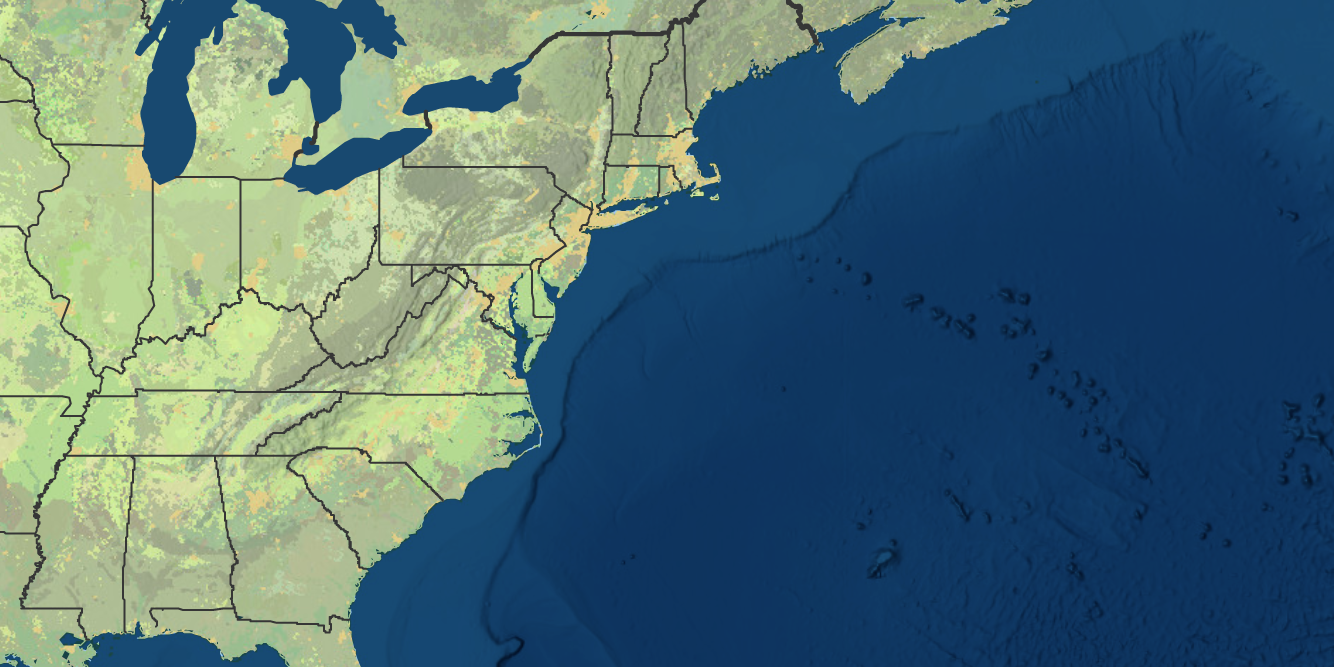
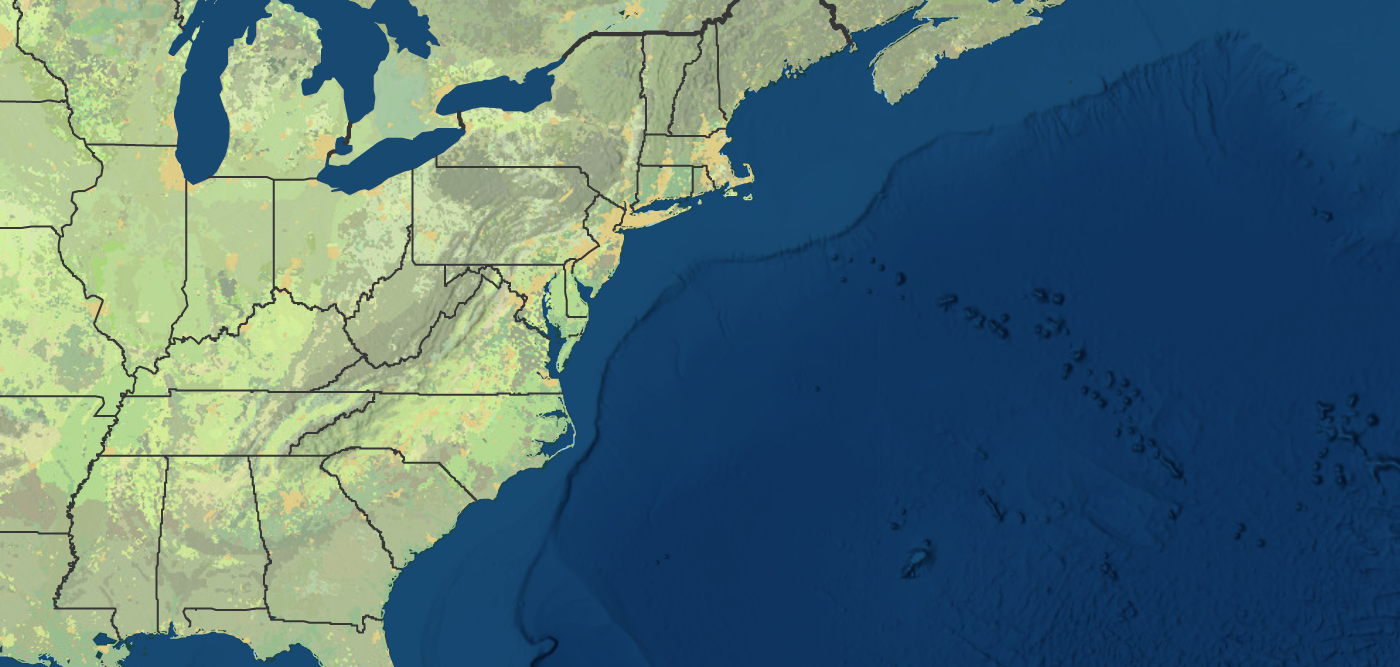
MassSims v1.17: AP right-margin fixes, wider maps, Boston label a11y
- Nor'easter AP Full Width / AP 2-Column: panels + dropdown grid fill
  continuously so the right margin stays 10px across all devices
- Swap in wider 1400x667 street/satellite maps; overlays keep the original
  map width as their reference frame so nothing shifts
- Boston label: 21px/700 for blurred-vision legibility, bigger dot with
  thicker ring, unified group drop-shadow, default "Below clouds"
- Bump version tag to v1.17 (7/28/26)

diff --git a/index.html b/index.html
@@ -2110,8 +2110,8 @@
   <!-- Left: Sims + Layout + Device buttons -->
   <nav class="btn-column" aria-label="Simulation controls">
     <div id="masssims-title" style="font-family: 'Barlow Condensed', sans-serif; color: #333; font-size: 18px; line-height: 1.3; margin-bottom: 10px;">
-      <div style="font-weight: 600;">MassSims &bull; v1.16</div>
-      <div style="font-weight: 400;">Updated: 7/27/26</div>
+      <div style="font-weight: 600;">MassSims &bull; v1.17</div>
+      <div style="font-weight: 400;">Updated: 7/28/26</div>
     </div>
     <div role="group" aria-labelledby="sims-label">
       <div class="btn-column-label" id="sims-label">Sims</div>
@@ -5949,7 +5949,7 @@ function buildSimContent() {
             b.textContent = mode;
             var radius = mode === "Below clouds" ? "4px 0 0 4px" : "0 4px 4px 0";
             var ml = mode === "Above clouds" ? "margin-left:-1px;" : "";
-            b.style.cssText = "padding:4px 8px;border:1px solid #4680B8;border-radius:" + radius + ";background:" + (mode === "Above clouds" ? "#D3E8FD" : "#fff") + ";cursor:pointer;font-family:inherit;font-size:13px;position:relative;" + ml;
+            b.style.cssText = "padding:4px 8px;border:1px solid #4680B8;border-radius:" + radius + ";background:" + (mode === "Below clouds" ? "#D3E8FD" : "#fff") + ";cursor:pointer;font-family:inherit;font-size:13px;position:relative;" + ml;
             b.addEventListener("focus", function() { b.style.zIndex = "1"; });
             b.addEventListener("blur", function() { b.style.zIndex = ""; });
             b.addEventListener("mouseenter", function() { if (!b.classList.contains("active")) b.style.background = "#D3E8FD"; });
@@ -5963,7 +5963,7 @@ function buildSimContent() {
               b.style.background = "#D3E8FD";
               if (SIM._bostonMarker) SIM._bostonMarker.style.zIndex = mode === "Above clouds" ? "11" : "9";
             });
-            if (mode === "Above clouds") b.classList.add("active");
+            if (mode === "Below clouds") b.classList.add("active");
             row2.appendChild(b);
           });
           bar.appendChild(row2);
@@ -6039,12 +6039,24 @@ function buildSimContent() {
 
         function updateNorDropdownSize() {
           let t = 1;
+          let gridExtra = 0; // extra width to add to the dropdown columns when the sim panel grows past its calibrated max (AP Full Width), so the right margin stays 10px
           if (simPanelWrap && dataPanelWrap && wrap.clientWidth > 0) {
             const F = wrap.clientWidth - 195;
             t = Math.max(0, Math.min(1, (F - NOR_F_MIN) / (NOR_F_MAX - NOR_F_MIN)));
-            const simW = NOR_SIM_MIN + t * (NOR_SIM_MAX - NOR_SIM_MIN);
-            const dataW = NOR_DATA_MIN + t * (NOR_DATA_MAX - NOR_DATA_MIN);
+            // Panel widths always fill F exactly so the right margin stays correct (10px gap).
+            // Both the sim and data panels scale continuously with an unclamped ratio, so
+            // outside the calibrated range they grow together (AP Full Width) or narrow
+            // together (AP 2-Column narrow). The visual interpolation `t` above stays clamped
+            // [0,1] for fonts/dropdown sizing.
+            const tW = (F - NOR_F_MIN) / (NOR_F_MAX - NOR_F_MIN);
+            const simW = NOR_SIM_MIN + tW * (NOR_SIM_MAX - NOR_SIM_MIN);
+            const dataW = F - simW;
+            // Above the calibrated range (AP Full Width) the panel is wider than the dropdown
+            // grid was designed to fill; hand that surplus to the dropdown columns below so the
+            // right margin to the right of Temperature stays 10px. Zero in every in-range case.
+            gridExtra = Math.max(0, simW - NOR_SIM_MAX);
             simPanelWrap.style.flex = "none";
+            simPanelWrap.style.minWidth = "0"; // width is set explicitly below; allows sub-px grow/narrow outside the calibrated range
             simPanelWrap.style.width = simW + "px";
             dataPanelWrap.style.flex = "none";
             dataPanelWrap.style.width = dataW + "px";
@@ -6057,7 +6069,8 @@ function buildSimContent() {
           if (SIM._bgExtension) SIM._bgExtension.style.height = (SIM._norPromptVisible ? 18 : 0) + "px";
 
           const autoW = NOR_AUTO_COND + t * (NOR_AUTO_LATO - NOR_AUTO_COND);
-          const colW = NOR_COND_W.map((cw, i) => cw + t * (NOR_LATO_W[i] - cw));
+          const latoSumW = NOR_LATO_W[0] + NOR_LATO_W[1] + NOR_LATO_W[2];
+          const colW = NOR_COND_W.map((cw, i) => cw + t * (NOR_LATO_W[i] - cw) + gridExtra * (NOR_LATO_W[i] / latoSumW));
           const colGap = NOR_GAP_COND + t * (NOR_GAP_LATO - NOR_GAP_COND);
           grid.style.gridTemplateColumns = autoW + "px " + colW[0] + "px " + colW[1] + "px " + colW[2] + "px";
           grid.style.gap = "5px " + colGap + "px";
@@ -6520,7 +6533,7 @@ function buildSimContent() {
           if (t !== undefined) norCurrentT = t;
           var sw = stage.offsetWidth, sh = stage.offsetHeight;
           if (!sw || !sh) return;
-          var imgW = sh * (2667 / 1334);
+          var imgW = sh * (2667 / 1334); // fixed overlay reference frame = ORIGINAL map width; do NOT change to the display asset aspect or Boston/arrows/labels/animations shift as the art widens
           var imgLeft = (sw - imgW) / 2;
           var frac = norCurrentT;
           var eased = 1 - Math.pow(1 - frac, 1.3);
@@ -7215,15 +7228,15 @@ function buildSimContent() {
 
         const bostonMarker = document.createElement("div");
         bostonMarker.setAttribute("aria-hidden", "true");
-        bostonMarker.style.cssText = "position:absolute;pointer-events:none;display:flex;align-items:center;gap:4px;z-index:11;";
-        bostonMarker.innerHTML = '<div style="width:8px;height:8px;border-radius:50%;background:#fff;border:2px solid #333;flex-shrink:0;box-shadow:0 0 0 2px #fff;filter:drop-shadow(0 1px 3px rgba(0,0,0,0.35));"></div><span style="font:500 18px \'Roboto Condensed\',sans-serif;color:#333;white-space:nowrap;position:relative;top:-6px;left:-1px;-webkit-text-stroke:4px #fff;paint-order:stroke fill;filter:drop-shadow(0 1px 3px rgba(0,0,0,0.35));">Boston</span>';
+        bostonMarker.style.cssText = "position:absolute;pointer-events:none;display:flex;align-items:center;gap:4px;z-index:9;filter:drop-shadow(0 1px 3px rgba(0,0,0,0.35));"; // shadow on the group (not per child) so the label's shadow sits behind the dot instead of on top of it
+        bostonMarker.innerHTML = '<div style="width:10px;height:10px;border-radius:50%;background:#fff;border:3px solid #333;flex-shrink:0;box-shadow:0 0 0 2px #fff;"></div><span style="font:700 21px \'Roboto Condensed\',sans-serif;color:#333;white-space:nowrap;position:relative;top:-7px;left:0.5px;-webkit-text-stroke:4px #fff;paint-order:stroke fill;">Boston</span>';
         stage.appendChild(bostonMarker);
         function positionBostonMarker() {
           var sw = stage.offsetWidth, sh = stage.offsetHeight;
-          var imgW = sh * (2667 / 1334);
+          var imgW = sh * (2667 / 1334); // fixed overlay reference frame = ORIGINAL map width; do NOT change to the display asset aspect or Boston/arrows/labels/animations shift as the art widens
           var imgLeft = (sw - imgW) / 2;
-          bostonMarker.style.left = (imgLeft + 0.36 * imgW - 6 + 81.5) + "px";
-          bostonMarker.style.top = (0.16 * sh - 6 + 13) + "px";
+          bostonMarker.style.left = (imgLeft + 0.36 * imgW - 7 + 81.5) + "px"; // -7 = half the dot's 10px border-box (was -6 for the old 8px dot); keeps the dot centered on the coast
+          bostonMarker.style.top = (0.16 * sh - 6 + 11.25) + "px"; // 11.25 (was 13 at 18px) keeps the dot on the coast after the label grew 18px→21px (taller line-box recenters the dot)
         }
         positionBostonMarker();
         SIM._positionBostonMarker = positionBostonMarker;
@@ -7259,7 +7272,7 @@ function buildSimContent() {
         stage.appendChild(pathwayArrows);
         function positionArrows() {
           var sw = stage.offsetWidth, sh = stage.offsetHeight;
-          var imgW = sh * (2667 / 1334);
+          var imgW = sh * (2667 / 1334); // fixed overlay reference frame = ORIGINAL map width; do NOT change to the display asset aspect or Boston/arrows/labels/animations shift as the art widens
           var imgLeft = (sw - imgW) / 2;
           var scale = sh / 265;
           NOR_ARROW_IMG.forEach(function(a) {
@@ -7293,7 +7306,7 @@ function buildSimContent() {
         function positionPills() {
           var sw = stage.offsetWidth, sh = stage.offsetHeight;
           if (!sw || !sh) return;
-          var imgW = sh * (2667 / 1334);
+          var imgW = sh * (2667 / 1334); // fixed overlay reference frame = ORIGINAL map width; do NOT change to the display asset aspect or Boston/arrows/labels/animations shift as the art widens
           var imgLeft = (sw - imgW) / 2;
           pillData.forEach(function(p) {
             var pill = pillContainer.querySelector('[data-pathway="' + p.num + '"]');
@@ -7363,7 +7376,7 @@ function buildSimContent() {
         function animateArrowsToStart(duration, nums) {
           var arrowNums = nums || [1, 2];
           var sw = stage.offsetWidth, sh = stage.offsetHeight;
-          var imgW = sh * (2667 / 1334);
+          var imgW = sh * (2667 / 1334); // fixed overlay reference frame = ORIGINAL map width; do NOT change to the display asset aspect or Boston/arrows/labels/animations shift as the art widens
           var imgLeft = (sw - imgW) / 2;
           var scale = sh / 265;
           var targetX = imgLeft + imgW / 2 + norStartOffX;
